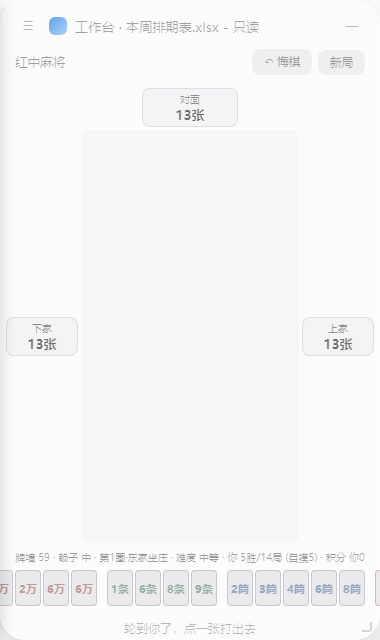
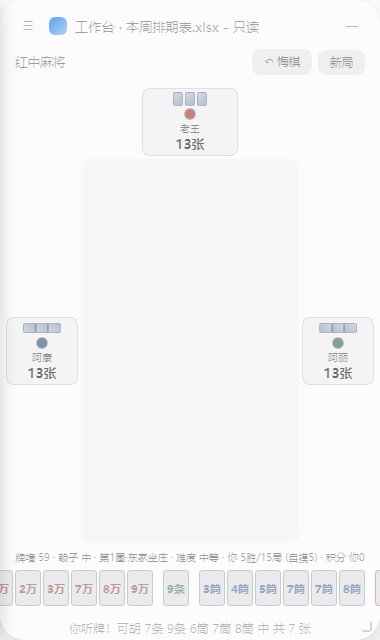
feat: 麻将视觉增强二期 - 牌背朝向+头像昵称+落位微弹
- 对手卡升级：头像圆点（低饱和配色）+ 昵称（阿康/老王/阿丽）+ 牌背组
- 牌背朝向中央：左家立起朝右 / 上家倒置朝下 / 右家立起朝左，更真实
- 新出牌落位微弹（mjPop 0.18s），摸鱼不夸张
- 测试：单测 15/15 · 模拟 10 局全胡 · 冒烟全绿

diff --git a/renderer/games/mahjong.js b/renderer/games/mahjong.js
@@ -17,6 +17,8 @@
   const LAIZI = 27;
   const SUIT_CN = ['万', '条', '筒'];
   const SEAT_NAME = ['你', '下家', '对面', '上家'];
+  const SEAT_ALIAS = ['你', '阿康', '老王', '阿丽'];      // 对手昵称（更生动）
+  const SEAT_COLOR = ['', '#7E90AA', '#C6837A', '#7FA38C']; // 头像圆点色（低饱和）
 
   function tileLabel(t) {
     if (t === LAIZI) return '中';
@@ -455,7 +457,11 @@
         const p = players[s];
         el.className = 'mj-pos pos-' + (s === 2 ? 'top' : s === 1 ? 'left' : 'right')
           + (turnIdx === s && phase !== 'over' ? ' active' : '');
-        let h = `<div class="nm">${SEAT_NAME[s]}</div>
+        const dir = s === 2 ? 'top' : s === 1 ? 'left' : 'right';
+        const backs = '<span class="bk"></span>'.repeat(3);
+        let h = `<div class="bks b-${dir}">${backs}</div>
+                 <div class="avatar" style="background:${SEAT_COLOR[s]}"></div>
+                 <div class="nm">${SEAT_ALIAS[s]}</div>
                  <div class="cnt">${p.concealed.length + meldTiles(p)}张</div>`;
         if (p.melds.length) {
           h += '<div class="mj-melds">' + p.melds.map(m =>
@@ -477,7 +483,7 @@
         z.className = 'mj-zone z' + s;
         zones[s].forEach((x, i) => {
           const isLast = i === zones[s].length - 1 && s === lastSeat && phase !== 'over';
-          z.appendChild(tileEl(x.t, 'sm' + (x.s === 0 ? ' mine' : '') + (isLast ? ' fresh' : '')));
+          z.appendChild(tileEl(x.t, 'sm' + (x.s === 0 ? ' mine' : '') + (isLast ? ' fresh pop' : '')));
         });
         els.poolIn.appendChild(z);
       });

diff --git a/renderer/glass.css b/renderer/glass.css
@@ -799,3 +799,40 @@ html, body {
 .mj-hand .mj-grp + .mj-grp {
   margin-left: 8px;
 }
+
+/* ---------- 麻将四方桌视觉增强二期：牌背朝向 + 头像 + 微弹 ---------- */
+.mj-pos { position: relative; }
+.mj-pos .bks {
+  display: flex; justify-content: center; gap: 2px;
+  margin-bottom: 3px;
+}
+.mj-pos .bk {
+  display: inline-block;
+  width: 10px; height: 14px;
+  border-radius: 2px;
+  background: linear-gradient(135deg,
+    rgba(126, 144, 170, calc(0.25 + 0.35 * var(--glass-alpha))),
+    rgba(126, 144, 170, calc(0.10 + 0.20 * var(--glass-alpha))));
+  border: 1px solid rgba(120, 126, 138, calc(0.12 + 0.20 * var(--glass-alpha)));
+  transform-origin: center;
+}
+/* 牌背朝向中央：左家立起朝右 / 上家倒置朝下 / 右家立起朝左 */
+.mj-pos .bks.b-left .bk { transform: rotate(90deg); }
+.mj-pos .bks.b-top .bk { transform: rotate(180deg); }
+.mj-pos .bks.b-right .bk { transform: rotate(-90deg); }
+.mj-pos .avatar {
+  width: 10px; height: 10px;
+  border-radius: 50%;
+  margin: 0 auto 2px;
+  box-shadow: 0 0 0 1px rgba(120, 126, 138, calc(0.2 + 0.3 * var(--glass-alpha)));
+}
+
+/* 出牌/摸牌落位微弹（0.18s 弹性，摸鱼不夸张） */
+.mj-tile.pop {
+  animation: mjPop 0.18s ease-out;
+}
+@keyframes mjPop {
+  0% { transform: scale(0.85); }
+  60% { transform: scale(1.06); }
+  100% { transform: scale(1); }
+}

diff --git a/README.md b/README.md
@@ -193,7 +193,7 @@ set GLASS_SMOKE_DIR=C:\Users\admin\AppData\Local\Temp\glass-smoke
 - `13-红中麻将-对局中.png`（6 游戏顶栏 + 三对手区 + 手牌花色低饱和 + 模式控件自动隐藏）
 - `14-红中麻将-胡牌定格.png`（胡牌定格面板：胡牌/手牌/副露/番型全摊开）
 - `15-汉堡菜单.png`（左侧滑出抽屉：游戏列表 + 全部设置）
-- `16-红中麻将-四方桌.png`（四方桌布局：对手围三方 + 牌河四分区）
+- `16-红中麻将-四方桌.png`（四方桌布局：对手围三方 + 牌河四分区 + 头像/昵称/牌背朝向/落位微弹）
 
 ## UI 透明度联动（v3 升级）
 
